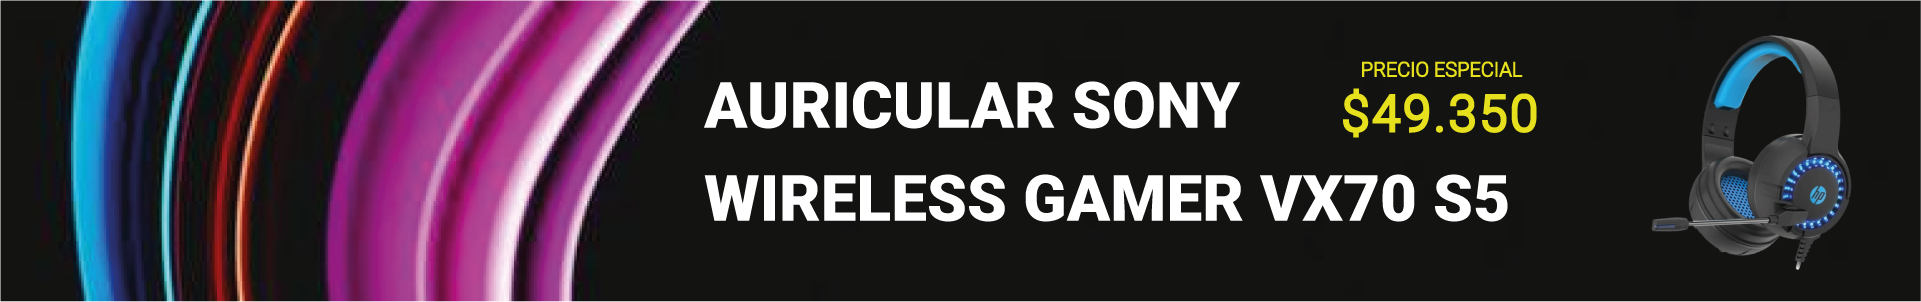
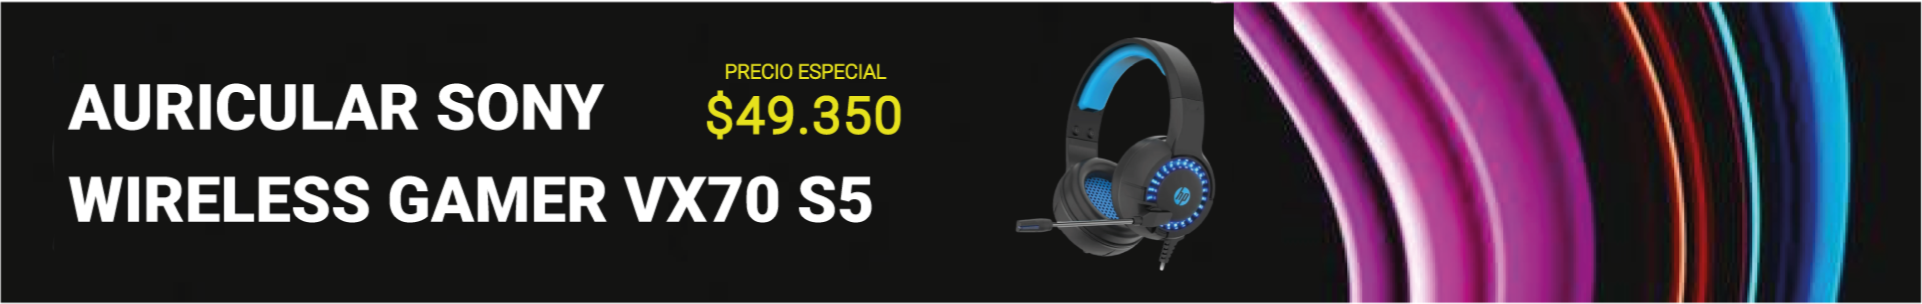
responsive carousel top

diff --git a/Client/src/components/CarouselTop/CarouselTop.component.jsx b/Client/src/components/CarouselTop/CarouselTop.component.jsx
@@ -1,33 +1,57 @@
 import React, { useState, useEffect } from "react";
-import imagen from "/carousel/carousel-1.png"
-import imagen2 from "/carousel/carousel-2.png"
-import imagen3 from "/carousel/carousel-3.png"
+import imagen from "/carousel/carousel-1.png";
+import imagen2 from "/carousel/carousel-2.png";
+import imagen3 from "/carousel/carousel-3.png";
+import imagenMobile from "/carousel/carousel-mobile-1.png";
+import imagenMobile2 from "/carousel/carousel-mobile-2.png";
+import imagenMobile3 from "/carousel/carousel-mobile-3.png";
 
-import {
-  Card,
-  CardContent,
-  CardMedia,
-  Typography,
-} from "@mui/material";
+import { Card, CardContent, CardMedia, Typography } from "@mui/material";
 
 // Implementacion del Carusel
+// const carouselData = [
+//   {
+//     imageUrl: imagen,
+//   },
+//   {
+//     imageUrl: imagen2,
+//   },
+//   {
+//     imageUrl: imagen3,
+//   },
+// ];
 const carouselData = [
   {
     imageUrl: imagen,
+    mobileImageUrl: imagenMobile,
   },
   {
     imageUrl: imagen2,
+    mobileImageUrl: imagenMobile2,
   },
   {
     imageUrl: imagen3,
+    mobileImageUrl: imagenMobile3,
   },
 ];
 
 const CarouselTopComponent = () => {
   const [activeIndex, setActiveIndex] = useState(0);
 
+  // const handleNext = () => {
+  //   setActiveIndex((prevIndex) => (prevIndex + 1) % carouselData.length);
+  // };
   const handleNext = () => {
-    setActiveIndex((prevIndex) => (prevIndex + 1) % carouselData.length);
+    const windowWidth = window.innerWidth;
+    let newIndex;
+
+    if (windowWidth <= 480) {
+      newIndex = (activeIndex + 1) % carouselData.length;
+    } else {
+      newIndex = (activeIndex + 1) % carouselData.length;
+    }
+
+    setActiveIndex(newIndex);
   };
 
   useEffect(() => {
@@ -40,13 +64,28 @@ const CarouselTopComponent = () => {
 
   return (
     <div>
-      <Card sx={{ height: "280px" }}>
+      <Card
+        sx={{
+          height: "280px",
+          "@media (max-width: 768px)": { height: "150px" },
+          "@media (max-width: 480px)": { height: "125px" },
+        }}
+      >
         <CardMedia
           component="img"
           alt={carouselData[activeIndex].title}
           width="100%"
           height="auto"
-          image={carouselData[activeIndex].imageUrl}
+          // image={carouselData[activeIndex].imageUrl}
+          image={
+            window.innerWidth <= 480
+              ? carouselData[activeIndex].mobileImageUrl
+              : carouselData[activeIndex].imageUrl
+          }
+          sx={{
+            "@media (max-width: 768px)": { width: "auto", height: "160px" },
+            "@media (max-width: 480px)": { width: "100%", height: "130px" },
+          }}
         />
         <CardContent>
           <Typography variant="h5" component="div">
